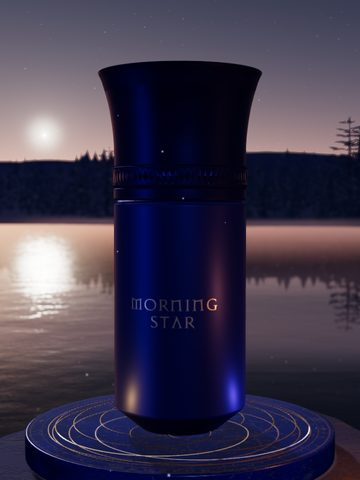
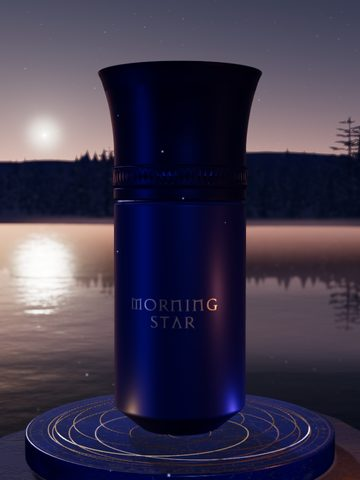
晨曉之星：金線光點的光源改成貼著盤面（光從溝槽透出），瓶底朝下的斜切角正對光源，光點經過時會亮起來；金線鑽進斜切角底下時仍照得到斜切角，到平底底下才熄掉；縮圖重拍
Claude-Session: https://claude.ai/code/session_01PqrgZkmayFsytv1H3rdgSD

diff --git a/morning-star-3d.html b/morning-star-3d.html
@@ -873,7 +873,9 @@ const thym=new THREE.Group(); { const tx=5.6, tz=2.9; thym.position.set(tx, terr
 const fireLight=new THREE.PointLight(C('#ff9450'), 14, 26, 1.7); fireLight.position.set(0,5.6,0); thym.add(fireLight);
 // 金線裡的兩道光也照亮瓶身：光從金線的溝槽裡透出來，只照到瓶身，不在不透明的青金石盤面上留下光暈
 // （所以不用 PointLight——它會照到盤面、金線與香爐；改在瓶身的著色器裡多算兩盞點光源，衰減 1.6、截止 12，光才爬得上瓶身）
-const PULSE = { I:[8,5.2], y:.62, foot:1.9, col:[C('#ffbe48'),C('#a596ff')] };            // 金光打在靛藍上會被吃掉一些，所以給亮一點
+// 光源貼著盤面（光是從金線溝槽透出來的）：瓶底朝下的斜切角正對著它，光點從旁邊經過時斜切角最亮；
+// 金線鑽進斜切角底下（平底外緣 1.13 以外）還照得到斜切角，到平底底下才熄掉
+const PULSE = { I:[8,5.2], y:.06, foot:[1.1,1.38], col:[C('#ffbe48'),C('#a596ff')] };            // 金光打在靛藍上會被吃掉一些，所以給亮一點
 const pulseU = { uPP:{ value:[new THREE.Vector3(), new THREE.Vector3()] }, uPC:{ value:[new THREE.Vector3(), new THREE.Vector3()] } };
 const flames=(()=>{ const m=new THREE.ShaderMaterial({ transparent:true, depthWrite:false, blending:THREE.AdditiveBlending, side:THREE.DoubleSide, fog:false, uniforms:{ uT:clockU },
     vertexShader:`varying vec2 vUv; void main(){ vUv=uv; gl_Position=projectionMatrix*modelViewMatrix*vec4(position,1.); }`,
@@ -925,7 +927,7 @@ const fx=(()=>{
     if(world.venus) world.venus.material.uniforms.uPulse.value=meetFront?0:fk;                 // 背面那次相遇（在瓶子底下，昏星變成晨星）：天上的金星亮一下
     const boost=1+(meetFront?fk*2.2:0);
     for(let i=0;i<2;i++){ const p=pulseU.uPP.value[i]; rose.posAt(i?U.uTB.value:U.uTA.value, p); const r=Math.hypot(p.x,p.z); p.y=PULSE.y;   // 鑽到瓶底下時熄掉
-      const k=PULSE.I[i]*sstep(PULSE.foot-.1,PULSE.foot+.5,r)*boost, c=PULSE.col[i]; pulseU.uPC.value[i].set(c.r*k, c.g*k, c.b*k); }
+      const k=PULSE.I[i]*sstep(PULSE.foot[0],PULSE.foot[1],r)*boost, c=PULSE.col[i]; pulseU.uPC.value[i].set(c.r*k, c.g*k, c.b*k); }
   };
   pulses(0);
   const update=(t,dt)=>{
@@ -1031,7 +1033,7 @@ const embTex = tex(TEX.emblem, false);
       sh.fragmentShader=sh.fragmentShader.replace('#include <lights_fragment_begin>',`#include <lights_fragment_begin>
         #if defined( RE_Direct )
         for(int k=0;k<2;k++){ vec3 lv=(viewMatrix*vec4(uPP[k],1.)).xyz-geometryPosition; float ld=max(length(lv),1e-3);
-          directLight.direction=lv/ld; directLight.color=uPC[k]*getDistanceAttenuation(ld,12.,1.6); directLight.visible=true;
+          directLight.direction=lv/ld; directLight.color=uPC[k]*getDistanceAttenuation(max(ld,.5),12.,1.6); directLight.visible=true;
           RE_Direct(directLight, geometryPosition, geometryNormal, geometryViewDir, geometryClearcoatNormal, material, reflectedLight); }
         #endif`);
     }; m.customProgramCacheKey=()=>'ms-satin-'+part; return m; };

diff --git a/src/morning-star-3d.src.html b/src/morning-star-3d.src.html
@@ -873,7 +873,9 @@ const thym=new THREE.Group(); { const tx=5.6, tz=2.9; thym.position.set(tx, terr
 const fireLight=new THREE.PointLight(C('#ff9450'), 14, 26, 1.7); fireLight.position.set(0,5.6,0); thym.add(fireLight);
 // 金線裡的兩道光也照亮瓶身：光從金線的溝槽裡透出來，只照到瓶身，不在不透明的青金石盤面上留下光暈
 // （所以不用 PointLight——它會照到盤面、金線與香爐；改在瓶身的著色器裡多算兩盞點光源，衰減 1.6、截止 12，光才爬得上瓶身）
-const PULSE = { I:[8,5.2], y:.62, foot:1.9, col:[C('#ffbe48'),C('#a596ff')] };            // 金光打在靛藍上會被吃掉一些，所以給亮一點
+// 光源貼著盤面（光是從金線溝槽透出來的）：瓶底朝下的斜切角正對著它，光點從旁邊經過時斜切角最亮；
+// 金線鑽進斜切角底下（平底外緣 1.13 以外）還照得到斜切角，到平底底下才熄掉
+const PULSE = { I:[8,5.2], y:.06, foot:[1.1,1.38], col:[C('#ffbe48'),C('#a596ff')] };            // 金光打在靛藍上會被吃掉一些，所以給亮一點
 const pulseU = { uPP:{ value:[new THREE.Vector3(), new THREE.Vector3()] }, uPC:{ value:[new THREE.Vector3(), new THREE.Vector3()] } };
 const flames=(()=>{ const m=new THREE.ShaderMaterial({ transparent:true, depthWrite:false, blending:THREE.AdditiveBlending, side:THREE.DoubleSide, fog:false, uniforms:{ uT:clockU },
     vertexShader:`varying vec2 vUv; void main(){ vUv=uv; gl_Position=projectionMatrix*modelViewMatrix*vec4(position,1.); }`,
@@ -925,7 +927,7 @@ const fx=(()=>{
     if(world.venus) world.venus.material.uniforms.uPulse.value=meetFront?0:fk;                 // 背面那次相遇（在瓶子底下，昏星變成晨星）：天上的金星亮一下
     const boost=1+(meetFront?fk*2.2:0);
     for(let i=0;i<2;i++){ const p=pulseU.uPP.value[i]; rose.posAt(i?U.uTB.value:U.uTA.value, p); const r=Math.hypot(p.x,p.z); p.y=PULSE.y;   // 鑽到瓶底下時熄掉
-      const k=PULSE.I[i]*sstep(PULSE.foot-.1,PULSE.foot+.5,r)*boost, c=PULSE.col[i]; pulseU.uPC.value[i].set(c.r*k, c.g*k, c.b*k); }
+      const k=PULSE.I[i]*sstep(PULSE.foot[0],PULSE.foot[1],r)*boost, c=PULSE.col[i]; pulseU.uPC.value[i].set(c.r*k, c.g*k, c.b*k); }
   };
   pulses(0);
   const update=(t,dt)=>{
@@ -1031,7 +1033,7 @@ const embTex = tex(TEX.emblem, false);
       sh.fragmentShader=sh.fragmentShader.replace('#include <lights_fragment_begin>',`#include <lights_fragment_begin>
         #if defined( RE_Direct )
         for(int k=0;k<2;k++){ vec3 lv=(viewMatrix*vec4(uPP[k],1.)).xyz-geometryPosition; float ld=max(length(lv),1e-3);
-          directLight.direction=lv/ld; directLight.color=uPC[k]*getDistanceAttenuation(ld,12.,1.6); directLight.visible=true;
+          directLight.direction=lv/ld; directLight.color=uPC[k]*getDistanceAttenuation(max(ld,.5),12.,1.6); directLight.visible=true;
           RE_Direct(directLight, geometryPosition, geometryNormal, geometryViewDir, geometryClearcoatNormal, material, reflectedLight); }
         #endif`);
     }; m.customProgramCacheKey=()=>'ms-satin-'+part; return m; };

diff --git a/CLAUDE.md b/CLAUDE.md
@@ -50,7 +50,7 @@
 - 湖面倒影：鏡像相機＋斜切近平面（同 three.js Reflector），只畫第 2 層；相機繞行的那一圈（離瓶子約 24～62）不要放大石或樹，會擋在鏡頭前。
 - 景深不處理天空（深度 = 1）：星點會被糊掉。
 - 夜景裡的模型整個偏藍：淺色木頭、乳香這類暖色的材質要用暖色 color 乘上去，不然看起來像灰色的石頭。
-- 台座金線的光點要照亮瓶身（Yoyo 對晨曉之星的要求），但只照瓶身：光是從金線的溝槽透出來的，青金石盤面不透明，盤面上不能有跟著跑的光暈。所以不用 PointLight（three.js 的燈會照到所有材質），改在瓶身的 `satin()` 著色器 `lights_fragment_begin` 之後多算兩盞點光源（`pulseU`：`uPP` 世界座標位置、`uPC` 顏色×強度；用 `viewMatrix` 換到視空間，湖面倒影的鏡像相機也對；`getDistanceAttenuation(距離, 12, 1.6)` 讓光爬得上瓶身）。位置跟著 `rose.posAt(弧長參數)` 在盤面上方 0.62 走，走到瓶底下就熄掉，兩道光相遇時變亮。金光打在靛藍的半金屬漆上會變成粉紫色：燈色偏黃（#ffbe48）、瓶身 clearcoat 0.22（白色的漆面反光），金光才看得出是金色。
+- 台座金線的光點要照亮瓶身（Yoyo 對晨曉之星的要求），但只照瓶身：光是從金線的溝槽透出來的，青金石盤面不透明，盤面上不能有跟著跑的光暈。所以不用 PointLight（three.js 的燈會照到所有材質），改在瓶身的 `satin()` 著色器 `lights_fragment_begin` 之後多算兩盞點光源（`pulseU`：`uPP` 世界座標位置、`uPC` 顏色×強度；用 `viewMatrix` 換到視空間，湖面倒影的鏡像相機也對；`getDistanceAttenuation(距離, 12, 1.6)` 讓光爬得上瓶身）。位置跟著 `rose.posAt(弧長參數)` 貼著盤面走（高 0.06：光從溝槽透出來；原本放在 0.62，瓶底朝下的斜切角幾乎照不到，Yoyo 問「斜面為何不會反射光線」），金線鑽進斜切角底下時仍照得到斜切角，到平底（半徑 1.13）底下才熄掉；距離下限 0.5，免得貼近時燒成白點；兩道光相遇時變亮。瓶身的環境貼圖下半球只有地平線的深藍，斜切角朝下、反射不到東西，所以光點離得遠時斜切角本來就偏暗（實拍也比瓶身暗）。金光打在靛藍的半金屬漆上會變成粉紫色：燈色偏黃（#ffbe48）、瓶身 clearcoat 0.22（白色的漆面反光），金光才看得出是金色。
 
 ### 檢查
 - 自己寫的幾何（BufferGeometry 手排索引）一定要用數值驗證繞序與法向朝外（三角形外法向 · (中心→三角形) > 0、頂點法向朝外）。無極烏龍的瓶身曾經整個繞反：GPU 只畫出遠側那一面，光線從那裡往外走，根本沒穿過內腔，看起來就像一塊實心玻璃、背面浮雕跑到正面。
